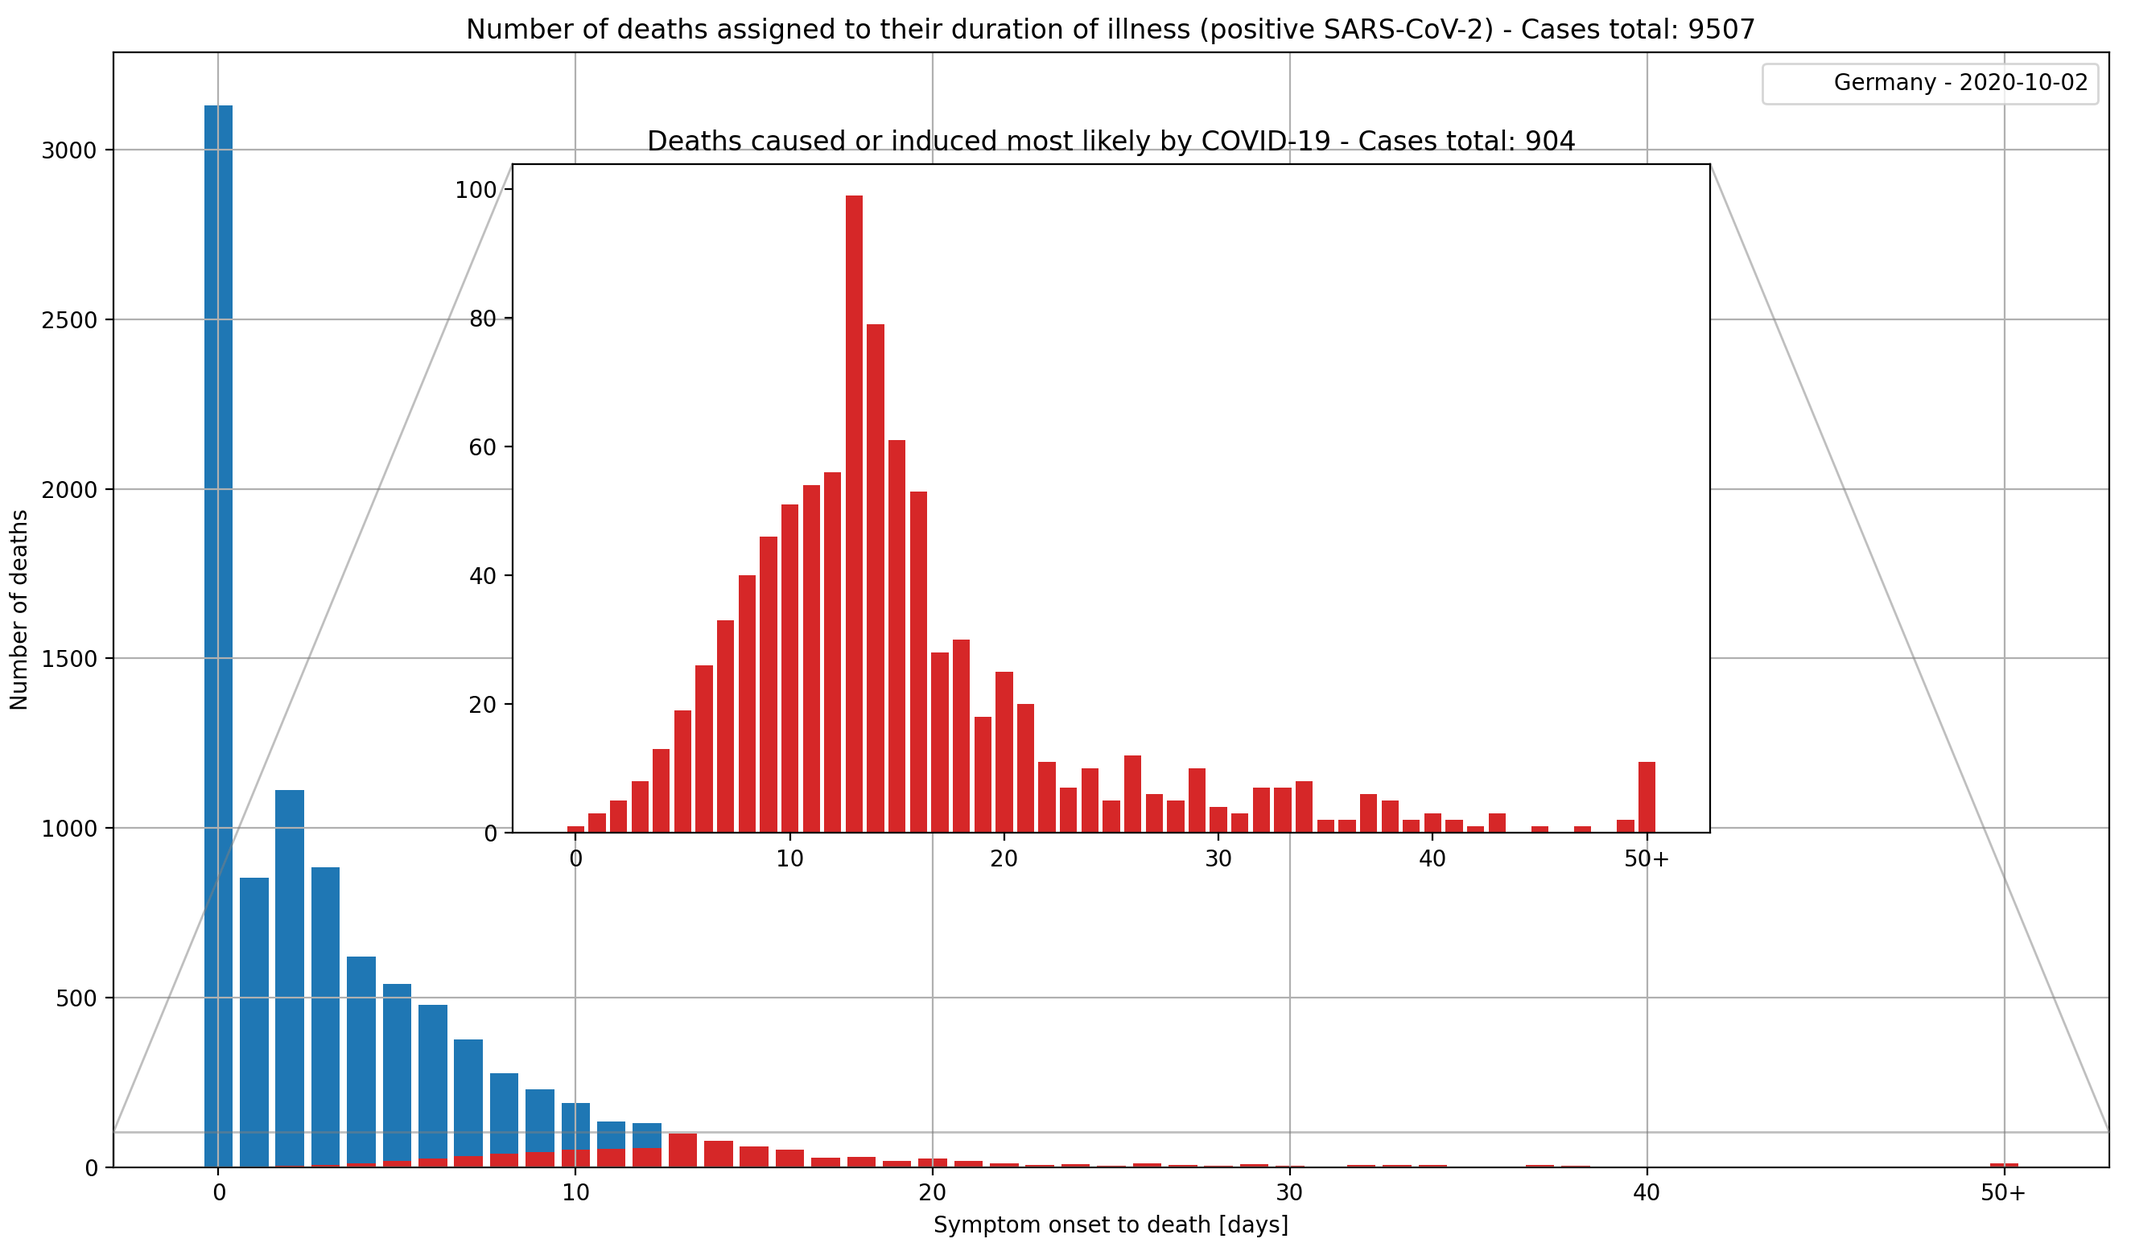
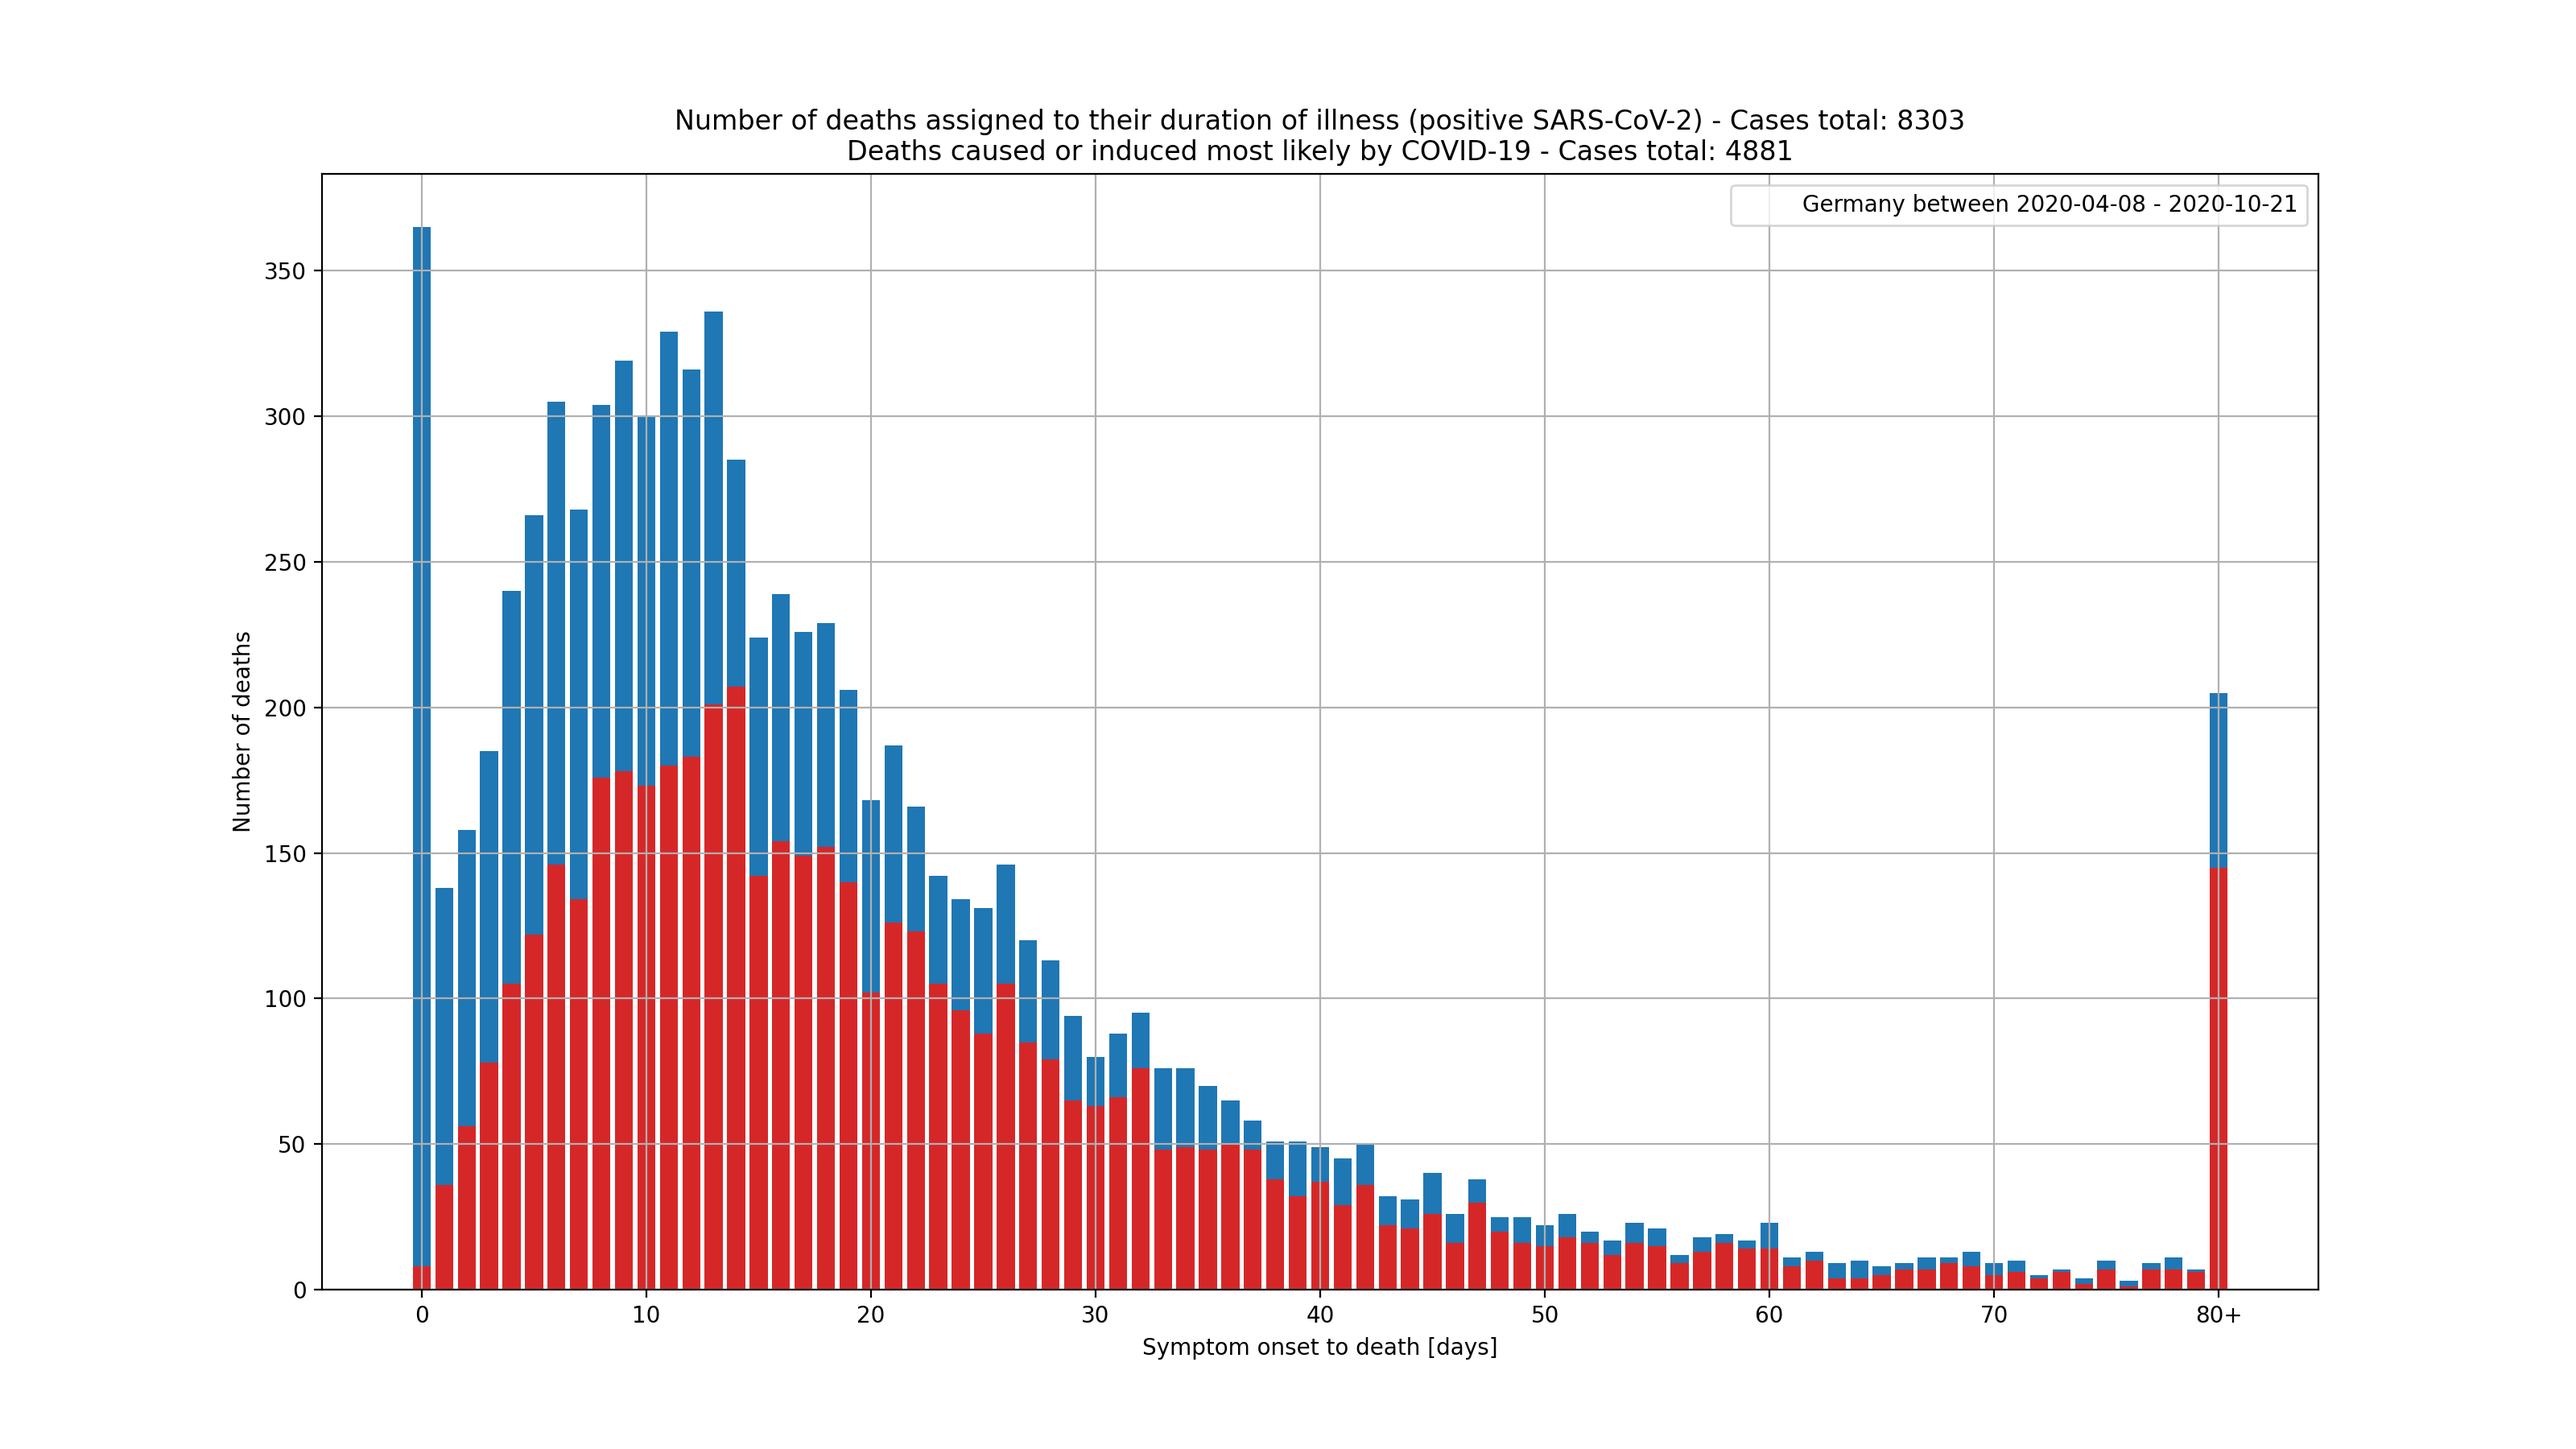
Mark segments for rewrite on covid deaths Germany

diff --git a/2020/covid-19-deaths-germany/index.html b/2020/covid-19-deaths-germany/index.html
@@ -120,48 +120,57 @@
   </p>
   <h2>Gegenüberstellung der Erkrankungsdauer und deren entsprechenden Todesfällen</h2>
   <p>
-    Für die hier aufgestellte Analyse wird der konservativste Wert (minimal 13 Tage, 95 %-Konfidenzintervall <dt-cite
-      key="Khalili2020"></dt-cite>) für die mittlere Zeitspanne von Symptombeginn bis zum Eintreten des Todes
-    verwendet. Eine ausreichende Ausbreitung des Virus und die damit einhergehenden Beeinträchtigungen auf den
-    menschlichen Körper werden umso unwahrscheinlicher, je weiter man diese Zeitspanne in Richtung Symptombeginn
-    verkürzt.
-    <br />
-    Die Wahrscheinlichkeit an COVID-19 zu sterben, kann mit den SARS-CoV-2 Meldedaten des Robert Koch-Instituts
-    verschnitten werden, welche das Datum des Todes und den Erkrankungsbeginn jedes Falles dokumentieren, sofern dieser
-    symptomatisch ist <dt-cite key="RKI2020Data"></dt-cite>.
+    <del>Für die hier aufgestellte Analyse wird der konservativste Wert (minimal 13 Tage, 95 %-Konfidenzintervall
+      <dt-cite key="Khalili2020"></dt-cite>) für die mittlere Zeitspanne von Symptombeginn bis zum Eintreten des Todes
+      verwendet. Eine ausreichende Ausbreitung des Virus und die damit einhergehenden Beeinträchtigungen auf den
+      menschlichen Körper werden umso unwahrscheinlicher, je weiter man diese Zeitspanne in Richtung Symptombeginn
+      verkürzt.
+      <br />
+      Die Wahrscheinlichkeit an COVID-19 zu sterben, kann mit den SARS-CoV-2 Meldedaten des Robert Koch-Instituts
+      verschnitten werden, welche das Datum des Todes und den Erkrankungsbeginn jedes Falles dokumentieren, sofern
+      dieser
+      symptomatisch ist <dt-cite key="RKI2020Data"></dt-cite>.</del>
   </p>
 
-  <figure style="position:relative; width:920px;height:580px;">
+  <figure style="position:relative; width:1220px;height:680px;">
 
-    <img id="chart" src="symptom-onset-to-death.png">
-    <figcaption style="position:absolute; text-align:left; left:135px; width:650px; font-family:'Open Sans'">
+    <img id="chart" src="symptom-onset-to-death.png" height="600" style="object-fit: cover">
+    <figcaption style="position:absolute; text-align:left; left:290px; width:650px; font-family:'Open Sans'">
       Gegenüberstellung der Erkrankungsdauer (in Tagen) bis zum Eintreten des Todes aller positiv getesteten
       SARS-CoV-2 Fälle in Deutschland.
       Todesfälle <svg id="symptoms-indicator"
-        style="position:relative; top:2px; width:3px; height:14px; background:#1F77B4"></svg> deren Ursache
-      wahrscheinlich nicht der Infektion mit SARS-CoV-2 zugeschrieben werden kann.
+        style="position:relative; top:2px; width:3px; height:14px; background:#1F77B4"></svg> ohne einen bekannten
+      Krankheitsbeginn werden entsprechend der Dauer zwischen Meldedatum und Eintritt des Todes dargestellt.
       Todesfälle <svg id="symptoms-indicator"
-        style="position:relative; top:2px; width:3px; height:14px; background:#D62728"></svg> die
-      wahrscheinlich durch SARS-CoV-2 verursacht oder induziert wurden. Stand 02.10.2020
+        style="position:relative; top:2px; width:3px; height:14px; background:#D62728"></svg> mit bekanntem
+      Krankheitsbeginn.
+      Die Datenerhebung erfasst alle gemeldeten Todesfälle zwischen 08.04.2020 - 21.10.2020.
     </figcaption>
   </figure>
 
   <p>
-    Jeder dritte als COVID-19 gezählte Todesfall trat asymptomatisch ohne einen dokumentierten Krankheitsverlauf ein.
-    Die statistische Betrachtung zeigt darüber hinaus, dass weniger als 10% (904 von 9507) der offiziell gezählten
-    Todesfälle COVID-19 als deren Ursache zugeschrieben werden kann. Da hier der nach den Studien frühestmögliche
-    mittlere Zeitraum für einen zu erwarteten Todesfall angenommen wird, ist diese Zahl die wahrscheinliche Obergrenze.
-    Fälle mit falsch positiven PCR-Tests sind hier ebenfalls enthalten. Diese beiden Aspekte führen dazu, dass die Zahl
-    der mit COVID-19 in Verbindung stehenden Todesfälle noch geringer sein wird als hier dargestellt.
+    <del>Jeder dritte als COVID-19 gezählte Todesfall trat asymptomatisch ohne einen dokumentierten Krankheitsverlauf
+      ein.
+      Die statistische Betrachtung zeigt darüber hinaus, dass weniger als 10% (904 von 9507) der offiziell gezählten
+      Todesfälle COVID-19 als deren Ursache zugeschrieben werden kann. Da hier der nach den Studien frühestmögliche
+      mittlere Zeitraum für einen zu erwarteten Todesfall angenommen wird, ist diese Zahl die wahrscheinliche
+      Obergrenze.
+      Fälle mit falsch positiven PCR-Tests sind hier ebenfalls enthalten. Diese beiden Aspekte führen dazu, dass die
+      Zahl
+      der mit COVID-19 in Verbindung stehenden Todesfälle noch geringer sein wird als hier dargestellt.
+    </del>
   </p>
 
   <h2 id="conclusions">Zusammenfassung und Fazit</h2>
   <p>
-    Die hier dargestellte Betrachtungsweise der verfügbaren Daten zeigt deutlich, dass die aktuell angewandte Methode
-    zur Zählung der COVID-19 Todesfälle ein stark verzerrtes Bild der Realität erzeugt. Mindestens 90 % der offiziell
-    gezählten COVID-19 Todesfälle können nicht durch die Virusinfektion verstorben sein, da eine letale Ausbreitung des
-    Virus in dem kurzen Zeitraum zwischen Erkrankungsbeginn und Eintritt des Todes unwahrscheinlich ist. Eine
-    spezifischere Vorgehensweise zur Zählung sollte erdacht und angewendet werden, welches dieses Defizit korrigiert.
+    <del>
+      Die hier dargestellte Betrachtungsweise der verfügbaren Daten zeigt deutlich, dass die aktuell angewandte Methode
+      zur Zählung der COVID-19 Todesfälle ein stark verzerrtes Bild der Realität erzeugt. Mindestens 90 % der offiziell
+      gezählten COVID-19 Todesfälle können nicht durch die Virusinfektion verstorben sein, da eine letale Ausbreitung
+      des
+      Virus in dem kurzen Zeitraum zwischen Erkrankungsbeginn und Eintritt des Todes unwahrscheinlich ist. Eine
+      spezifischere Vorgehensweise zur Zählung sollte erdacht und angewendet werden, welches dieses Defizit korrigiert.
+    </del>
   </p>
 </dt-article>
 
